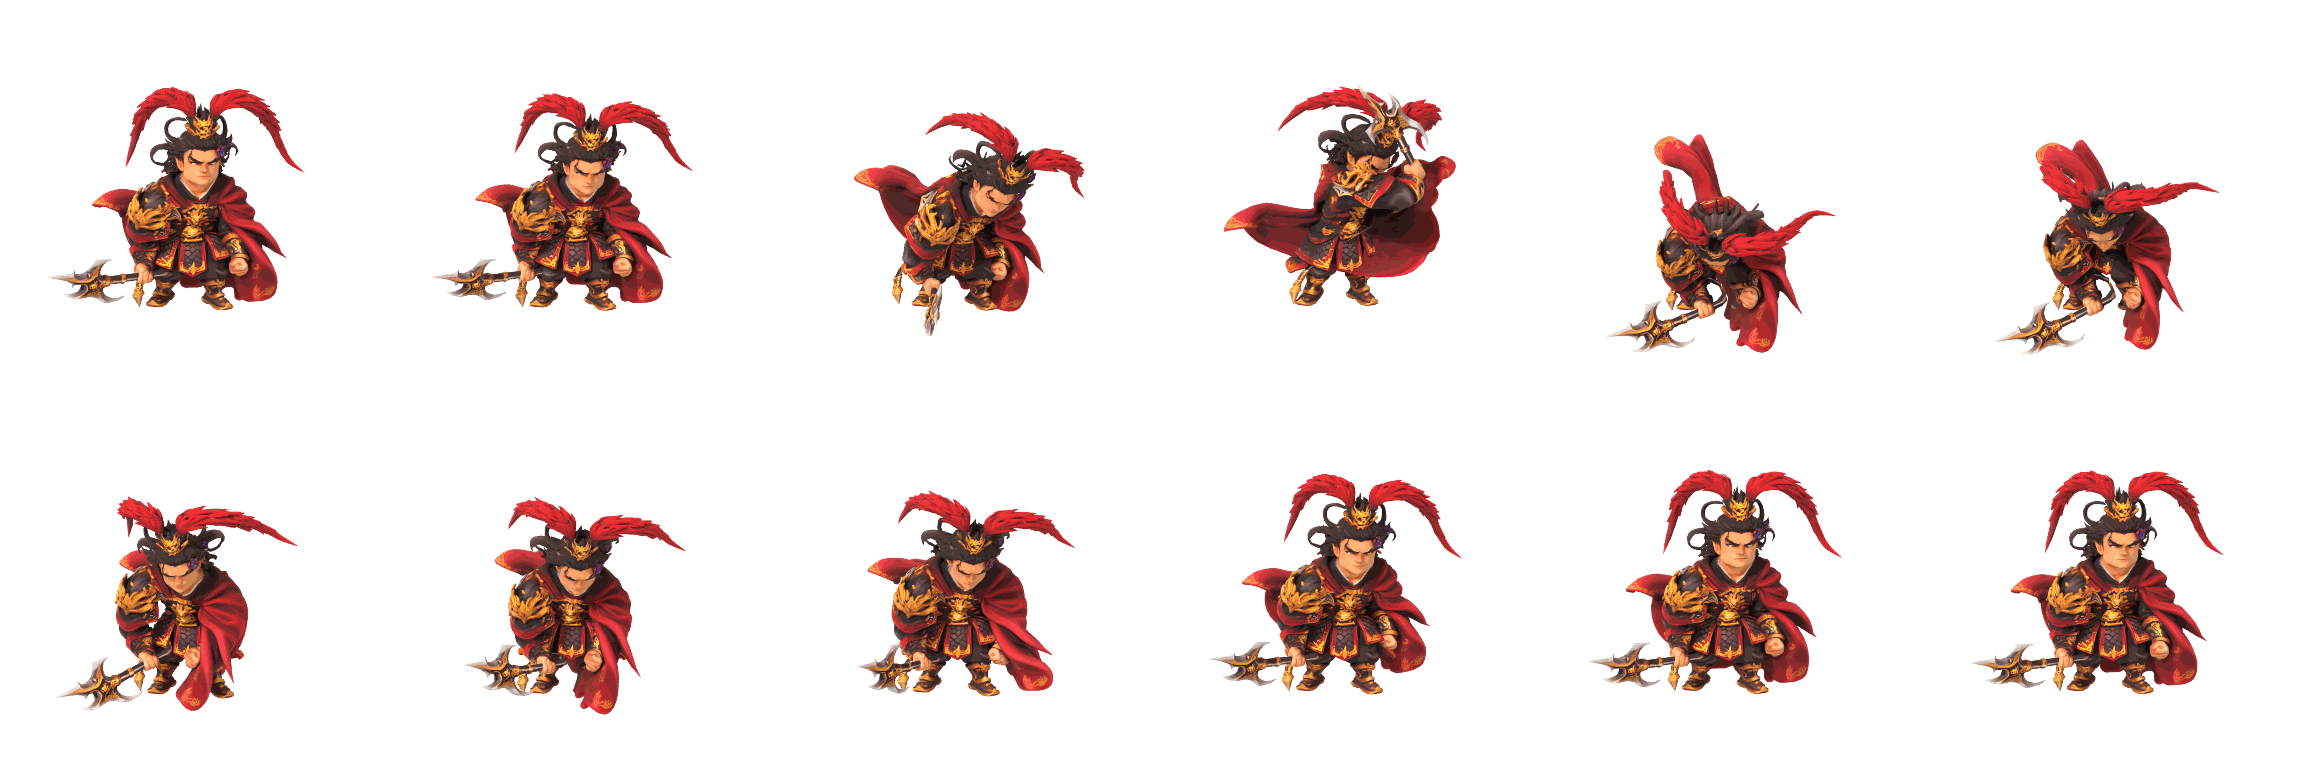
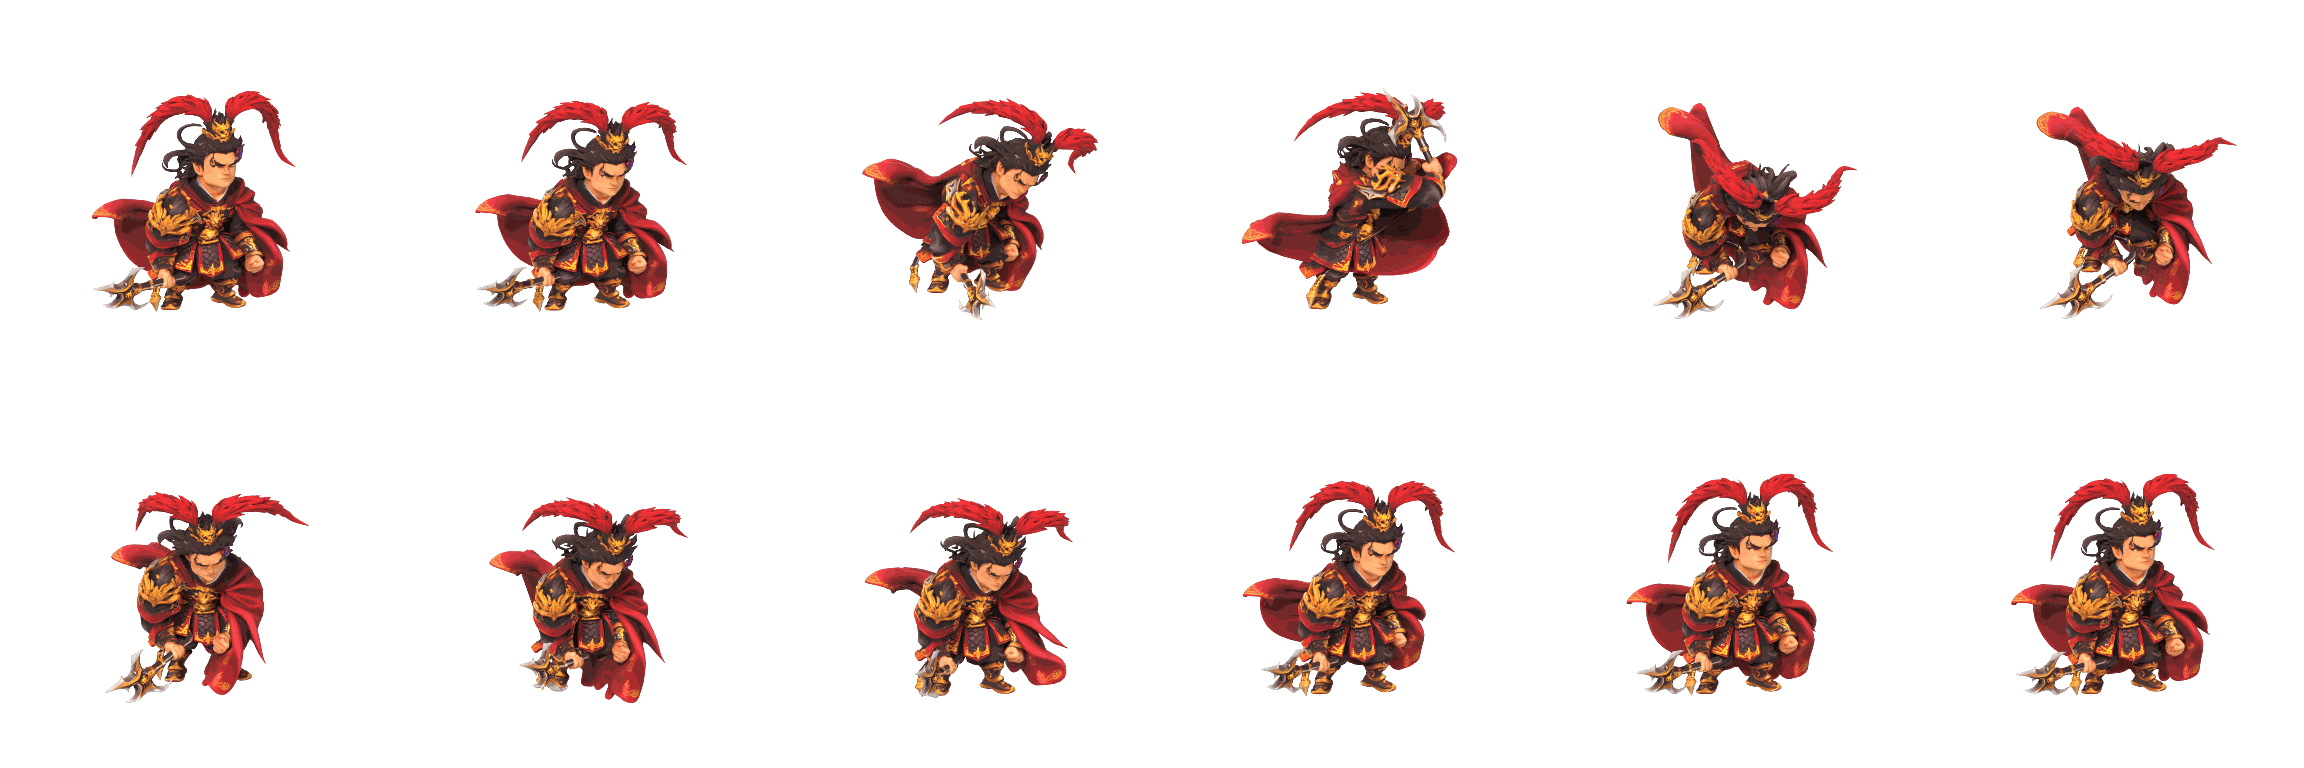
공격 동작: 48명 베기 그림을 넣고 전투 창에서 모형이 움직이며 휘두르게
Claude-Session: https://claude.ai/code/session_01JPWR7cpeA8N4Mb9T9FUedw

diff --git a/tools/import_standee_anims.py b/tools/import_standee_anims.py
@@ -58,7 +58,7 @@ def main() -> None:
 	for folder in sys.argv[1:]:
 		for path in sorted(Path(folder).rglob("render/*_*.png")):
 			name, kind = path.stem.rsplit("_", 1)
-			if kind not in ("idle", "walk") or name.startswith(("turn", "probe")):
+			if kind not in ("idle", "walk", "slash") or name.startswith(("turn", "probe")):
 				continue
 			sheet = ground(Image.open(path).convert("RGBA"))
 			sheet.quantize(256, method=Image.Quantize.FASTOCTREE).save(target / f"{name}_{kind}.png", optimize=True)

diff --git a/CLAUDE.md b/CLAUDE.md
@@ -32,6 +32,7 @@
 - 소환 연출(2026-11-17, 기획서는 프로젝트 문서 `claude/주사위영웅전_소환연출기획.md`): `scripts/ui/summon_show.gd`(SummonShow, 전체 화면 한 장면). 별빛 제단 → 운명의 주사위 강림(누르거나 1.5초) → 승격(최고 등급까지 파랑→보라→금, 번쩍·흔들림) → 빛기둥 → 뒷면 카드 배치 → 차례로 뒤집기(★★★는 등장 컷: 금빛 배경·큰 초상화·음성·꽃가루) → 결과(확인·한 번 더). 건너뛰기 버튼과 자동 사진(`instant`)은 곧바로 결과 장면. 상점의 `_summon`이 `await show.play(app, 결과, 한 번 더 값)`으로 띄운다(결과는 연출 전에 저장됨). 그림은 `assets/ui_summon/`(바탕 bg_altar·bg_glory, 주사위 die_blue·purple·gold, 카드 뒷면 card_back_*, 앞면 틀 card_front_*[창 위치는 meta.json], 딱지 badge_new), 주문서 `codex_work/job_summon.md`, 넣는 도구 `tools/import_summon.py <out/summon>`. 그림이 없으면 단색으로 대신한다. 자동 사진 `09_summon`(결과)·`09a~09e`(연출 장면).
 - 타이틀 로고(2026-11-17): 사용자가 고른 ChatGPT 시안의 타이틀처럼 금빛 로고 `assets/logos/title.png`(주사위 엠블럼·월계수·보석, 글자 포함)·부제 리본 `title_ribbon.png`·금 마름모 `title_diamond.png`를 `title_screen.gd`의 `_build_art_title`이 키 아트 위에 올린다. 그림이 없으면 예전 글자 제목. 로고는 보라 보석이 지워지지 않게 가장자리와 이어진 자홍만 바탕으로 지웠다.
 - 3D 모델(트리포, 2026-11-16 시험): 꼬마 모형 그림 한 장을 트리포(Tripo) API로 3D 모델 → 뼈대 → 동작(idle·walk·slash)까지 만들고, 블렌더(화면 없이, GitHub 서버)로 찍어 12칸 가로 그림 `assets/standees_anim/<id>_<동작>.png`으로 넣는다(`GameData.standee_anims`, `board_view.gd`의 `piece_anims`: 서 있으면 idle, 이동 중이면 walk). 주문서는 `tripo/jobs.json`, 도구는 `tools/tripo_run.py`(API 키는 저장소 비밀값 `TRIPO_API_KEY`, 예전 v2 주소로 연결됨)·`tools/tripo_render.py`, 작업 흐름은 `.github/workflows/tripo.yml`(`claude/tripo`로 시작하는 브랜치에서 `tripo/`가 바뀌면 돈다. 결과는 실행 결과물 `tripo-out`). 한 명에 약 85크레딧. 찍는 방향은 주문서의 `view`(도, 90이 트리포 정면)로 영웅마다 정한다. 뼈대를 못 넣는 모델(말 탄 마초, 목란)은 멈춘 그림 그대로 둔다. 파티원 두 명도 `party_anims`로 움직인다. API 크레딧이 없을 때는 트리포 웹(studio.tripo3d.ai, 크롬)에서 만든다: 그림 올리기 → 생성(55) → 리토폴로지 삼각형 1만(35) → 자동 리깅(20) → 프리셋 걷기·베기·대기 선택(무료) → 내보내기(GLB, 텍스처 1k, 애니메이션 모두, 제자리). 내려받은 GLB를 `tripo/web/<id>.glb`로 넣고 주문서에 `"local"`로 적으면 찍는다. 웹에서 내보낸 모델은 정면이 대체로 0도라 `view`는 -15쯤이지만 옆을 보는 것도 있어, 찍은 그림을 보고 영웅마다 고친다(값을 키우면 그림에서 왼쪽으로 돈다). 여러 명을 내보낼 때는 크롬이 둘째 파일부터 막으므로 사용자가 '여러 파일 자동 다운로드'를 허용해야 한다. 2026-11-16에 48명 모두 넣었다(웹 38명). 2026-11-18 다시 찍음: 찍는 방향은 이제 뼈대(mixamo 이름의 좌우 어깨·팔·허벅지, 발끝)로 앞 방향을 재서 모두 앞이 화면 오른쪽으로 40도 돌아간 모습으로 맞춘다(`tripo_render.py`의 `skeleton_forward`·TURN_RIGHT, 영웅별 덧보정은 주문서의 `turn_fix`, 몇 명만 다시 찍을 때는 주문서의 `only`). 모델 원본(GLB)과 이 도구들은 `claude/tripo-web`·`claude/tripo-face` 브랜치에 있다. 결과는 `tools/import_standee_anims.py <받은 폴더>`로 넣는다(칸마다 발을 땅선 81.25%에 맞추고 걸음 오르내림은 1.5%까지만, 256색). 그림은 칸 384픽셀, 6칸씩 두 줄(2304×768)로 찍고 256색으로 줄여 넣는다(`board_view.gd`의 `_anim_region`이 예전 12칸 한 줄 그림도 읽는다). 찍기는 여섯 서버가 나눠 한다(`SHARD`). 이미 만든 작업 번호(model_task·rig_task·anim_task)를 주문서에 적어 두면 다시 만들지 않는다.
+- 공격 동작(2026-11-18): 48명 모두 `assets/standees_anim/<id>_slash.png`(트리포 웹 모형은 chop, API 모형은 slash 동작을 찍음). 찍기는 `claude/tripo-slash` 브랜치(주문서 `kinds: ["slash"]`면 그 동작만 찍음, `tripo_render.py`의 KINDS). 쓰는 곳은 전투 창 `battle_overlay.gd`: 영웅 모형은 움직이는 그림(AtlasTexture, `_anim_sides`·`_set_anim_frame`)으로 서 있다가(idle 10장/초) 부딪칠 때 두 쪽이 함께 벤다(`_swing`, 0.6초). 웹 모형의 chop은 몸을 깊이 숙이는 장면이 있어 부딪침 번쩍임과 겹치게 맞췄다. 자동 사진 `16b_battle_slash`.
 - 화면 방식(2026-11-16): 가로 전용·전체 화면. 웹은 처음 누를 때 전체 화면과 가로 고정을 청하고(`main.gd`의 `_setup_display`, 설정의 전체 화면 켜기·끄기), 세로로 들면 안내 대신 게임이 스스로 90도 돌아 언제나 가로로 그려진다(`main.gd`의 `_fit_orientation`: 틀 전체를 돌리고 기준 크기를 720×1280으로 바꾼다). 그래서 화면 크기는 `get_viewport_rect()`가 아니라 틀(`app.size`)에서 얻고, 다른 칸의 위치는 `global_position`끼리 빼지 말고 `Kit.spot_in`으로 구한다. 화면 좌표는 `app.to_app`으로 바꾼다.
 - 가로 화면(2026-11-15 전환, 1280×720): 로비는 모두의 마블식(왼쪽 세로 메뉴·큰 영웅 카드와 장식 액자 `assets/ui_frames/lobby_frame.png`·배너·게임 시작), 맵은 원작 주사위의 잔영식(통짜 풍경 `assets/art/boards/<지형>.jpg`은 거울 2×2 이어 붙이기, 두꺼운 육각 칸 `assets/hex/<칸 종류>.png`, 가까운 카메라, 파티 3명이 함께 이동, 칸 위 물건 `assets/objects/`). 주사위와 전투는 창을 띄우지 않고 판 위에서 바로 보여 준다. 글·설명 칸은 단색 상자 대신 장식 판(`scripts/ui/ornate_box.gd`, `Kit.plate`/`Kit.panel`)과 리본 제목(`Kit.ribbon`)을 쓴다. 화면마다 판 색이 다르다(`main.gd`의 SCREEN_MOODS → `Kit.panel_tint`). 다른 화면의 아래 메뉴는 `Kit.screen_frame`의 왼쪽 자리(Dock)로 옮겨 가 세로 메뉴가 된다. 가로 배경은 `assets/art/wide/`(`GameData.art`가 WIDE_ART로 먼저 찾음), 입체 로고는 `assets/logos/`(`GameData.logo`). 시험 빌드는 PR 없이 `gh workflow run build.yml --ref <브랜치>`로 돌려 사진만 확인할 수 있다.
 - 입체 판과 연출(2026-11-15): 판은 `board_view.gd`에서 비스듬히 누운 블록(TILT, BLOCK_DEPTH)으로 그리고, 말은 꼬마 입체 모형 `assets/standees/<id>.png`(자홍 바탕으로 그려 `tools/import_standees.py`로 바탕 제거, `GameData.standee`)이다. 모형이 없으면 초상화 말로 돌아간다. 이어지지 않은 칸으로 갈 때(패배 복귀·워프)는 한 번에 날아간다. 칸 종류별 효과는 `_draw_tile_fx`. 화면 전체 연출(번쩍임·알갱이·속도선·빛살·튀는 글자)은 `scripts/ui/fx.gd` 한 곳에서 하고 `quiet`이면 건너뛴다. 메뉴 바탕의 떠다니는 빛은 `scripts/ui/ambience.gd`(`Kit.backdrop`이 붙임), 큰 버튼을 훑는 빛은 `scripts/ui/sweep.gd`(`Kit.shimmer`). 적 모형은 `assets/enemy_standees/<적 id>.png`(`GameData.enemy_standee`, 없으면 초상화 메달), 맵 꾸밈 모형은 `assets/props/`(`board_view.gd`의 PROP_NAMES, `tools/import_standees.py <폴더> props`로 넣음). 연출 계획은 프로젝트 문서 `claude/주사위영웅전_연출기획.md`.
